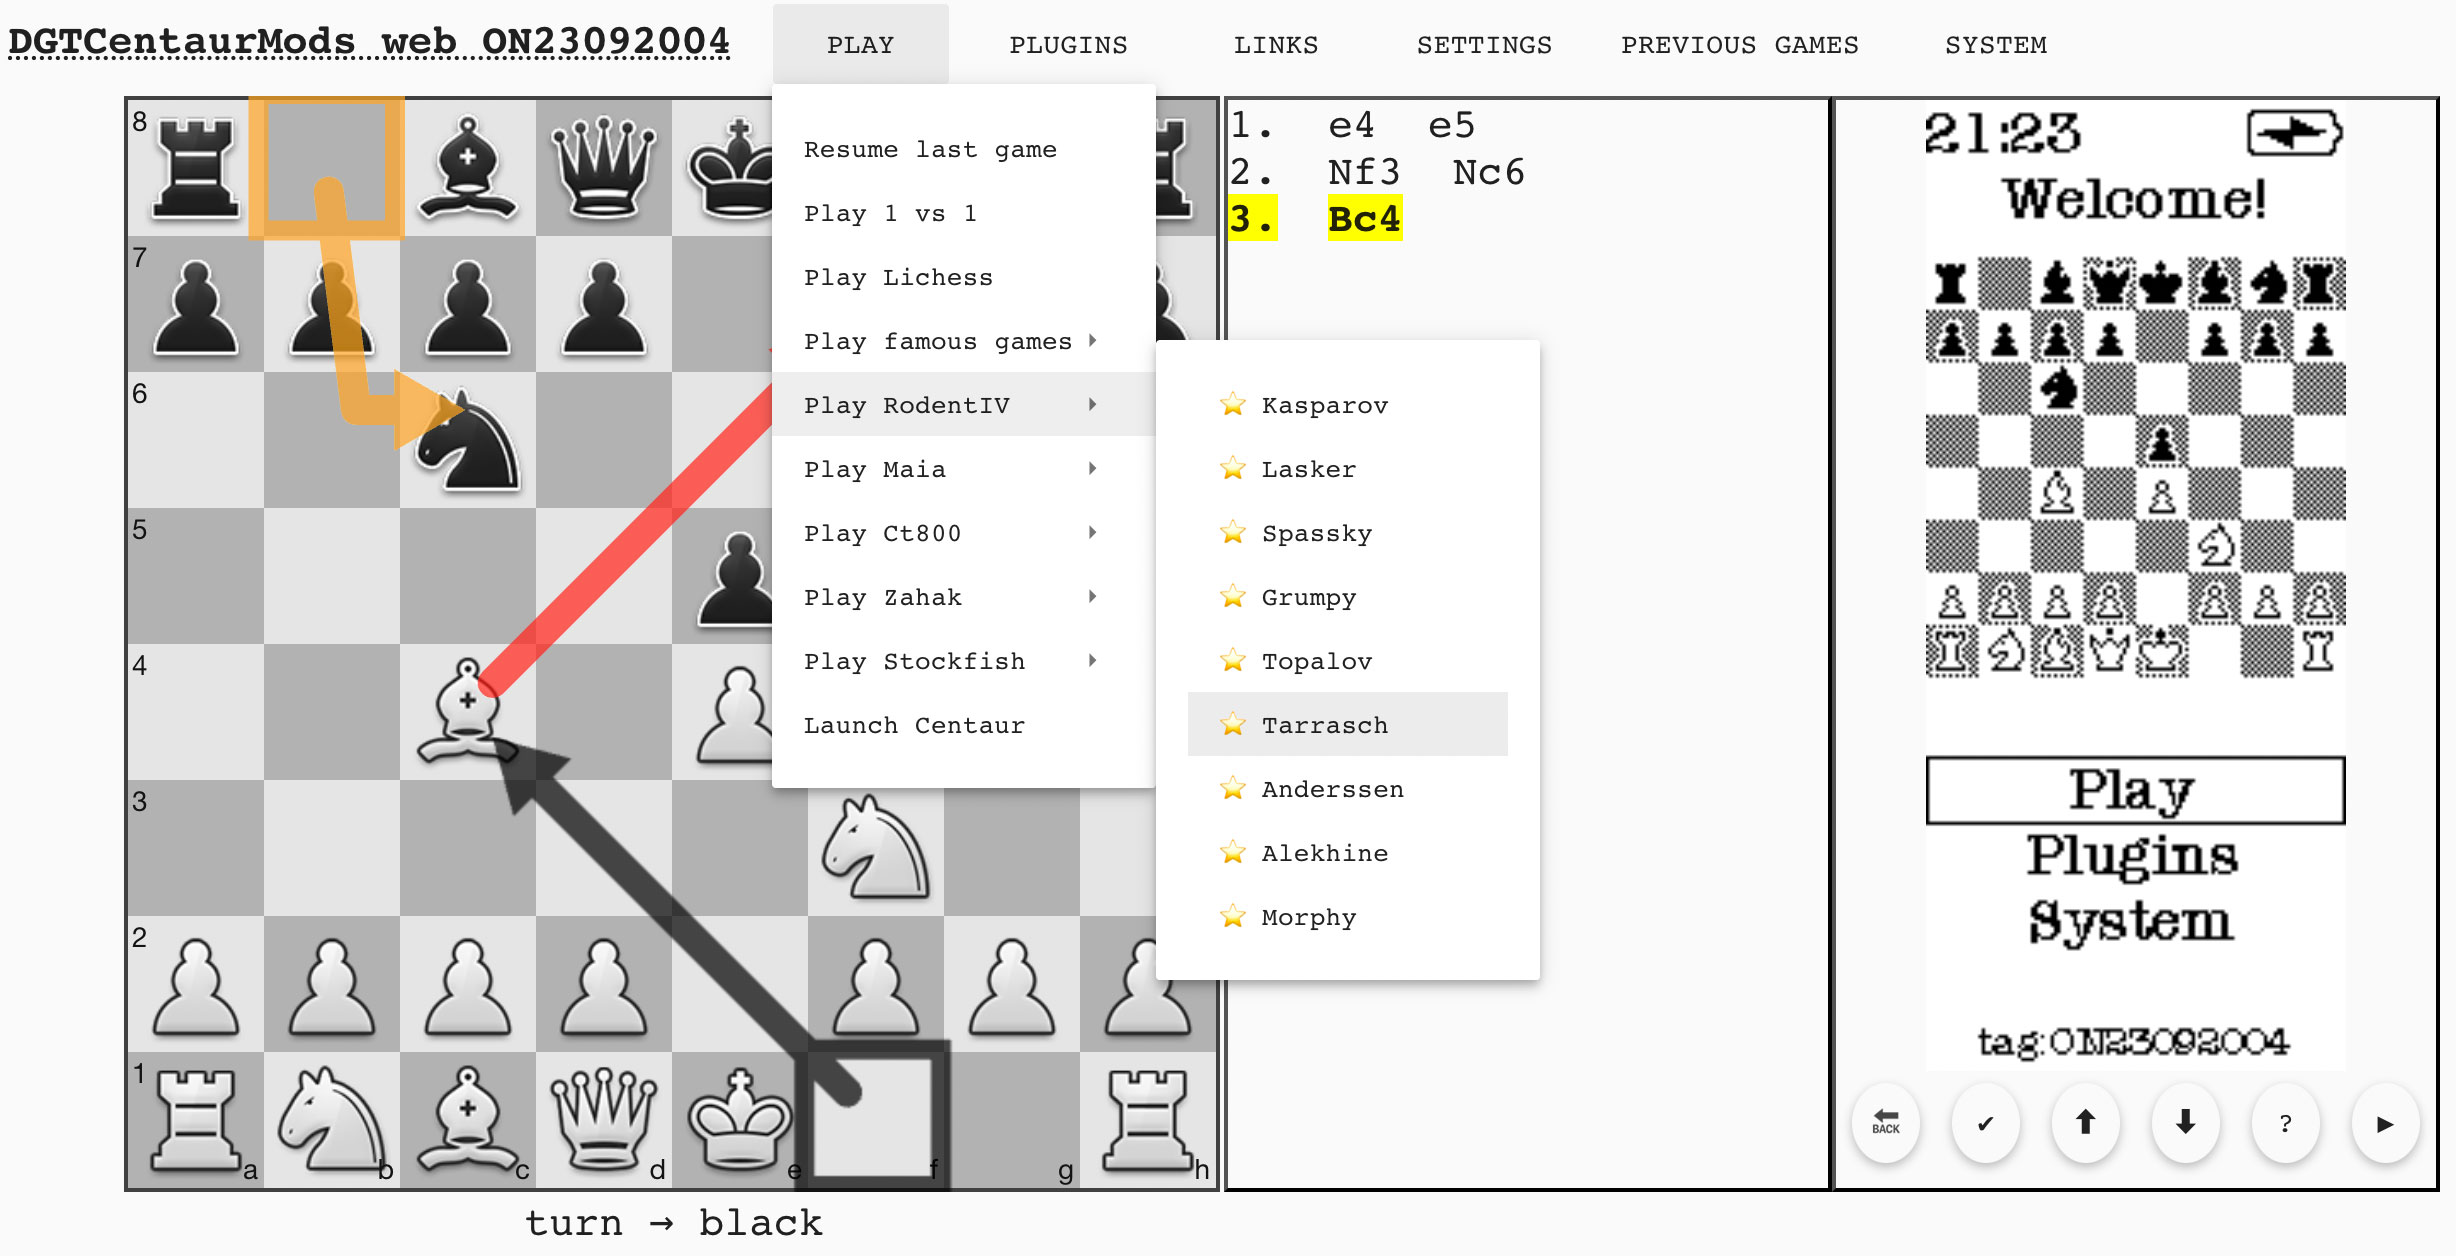
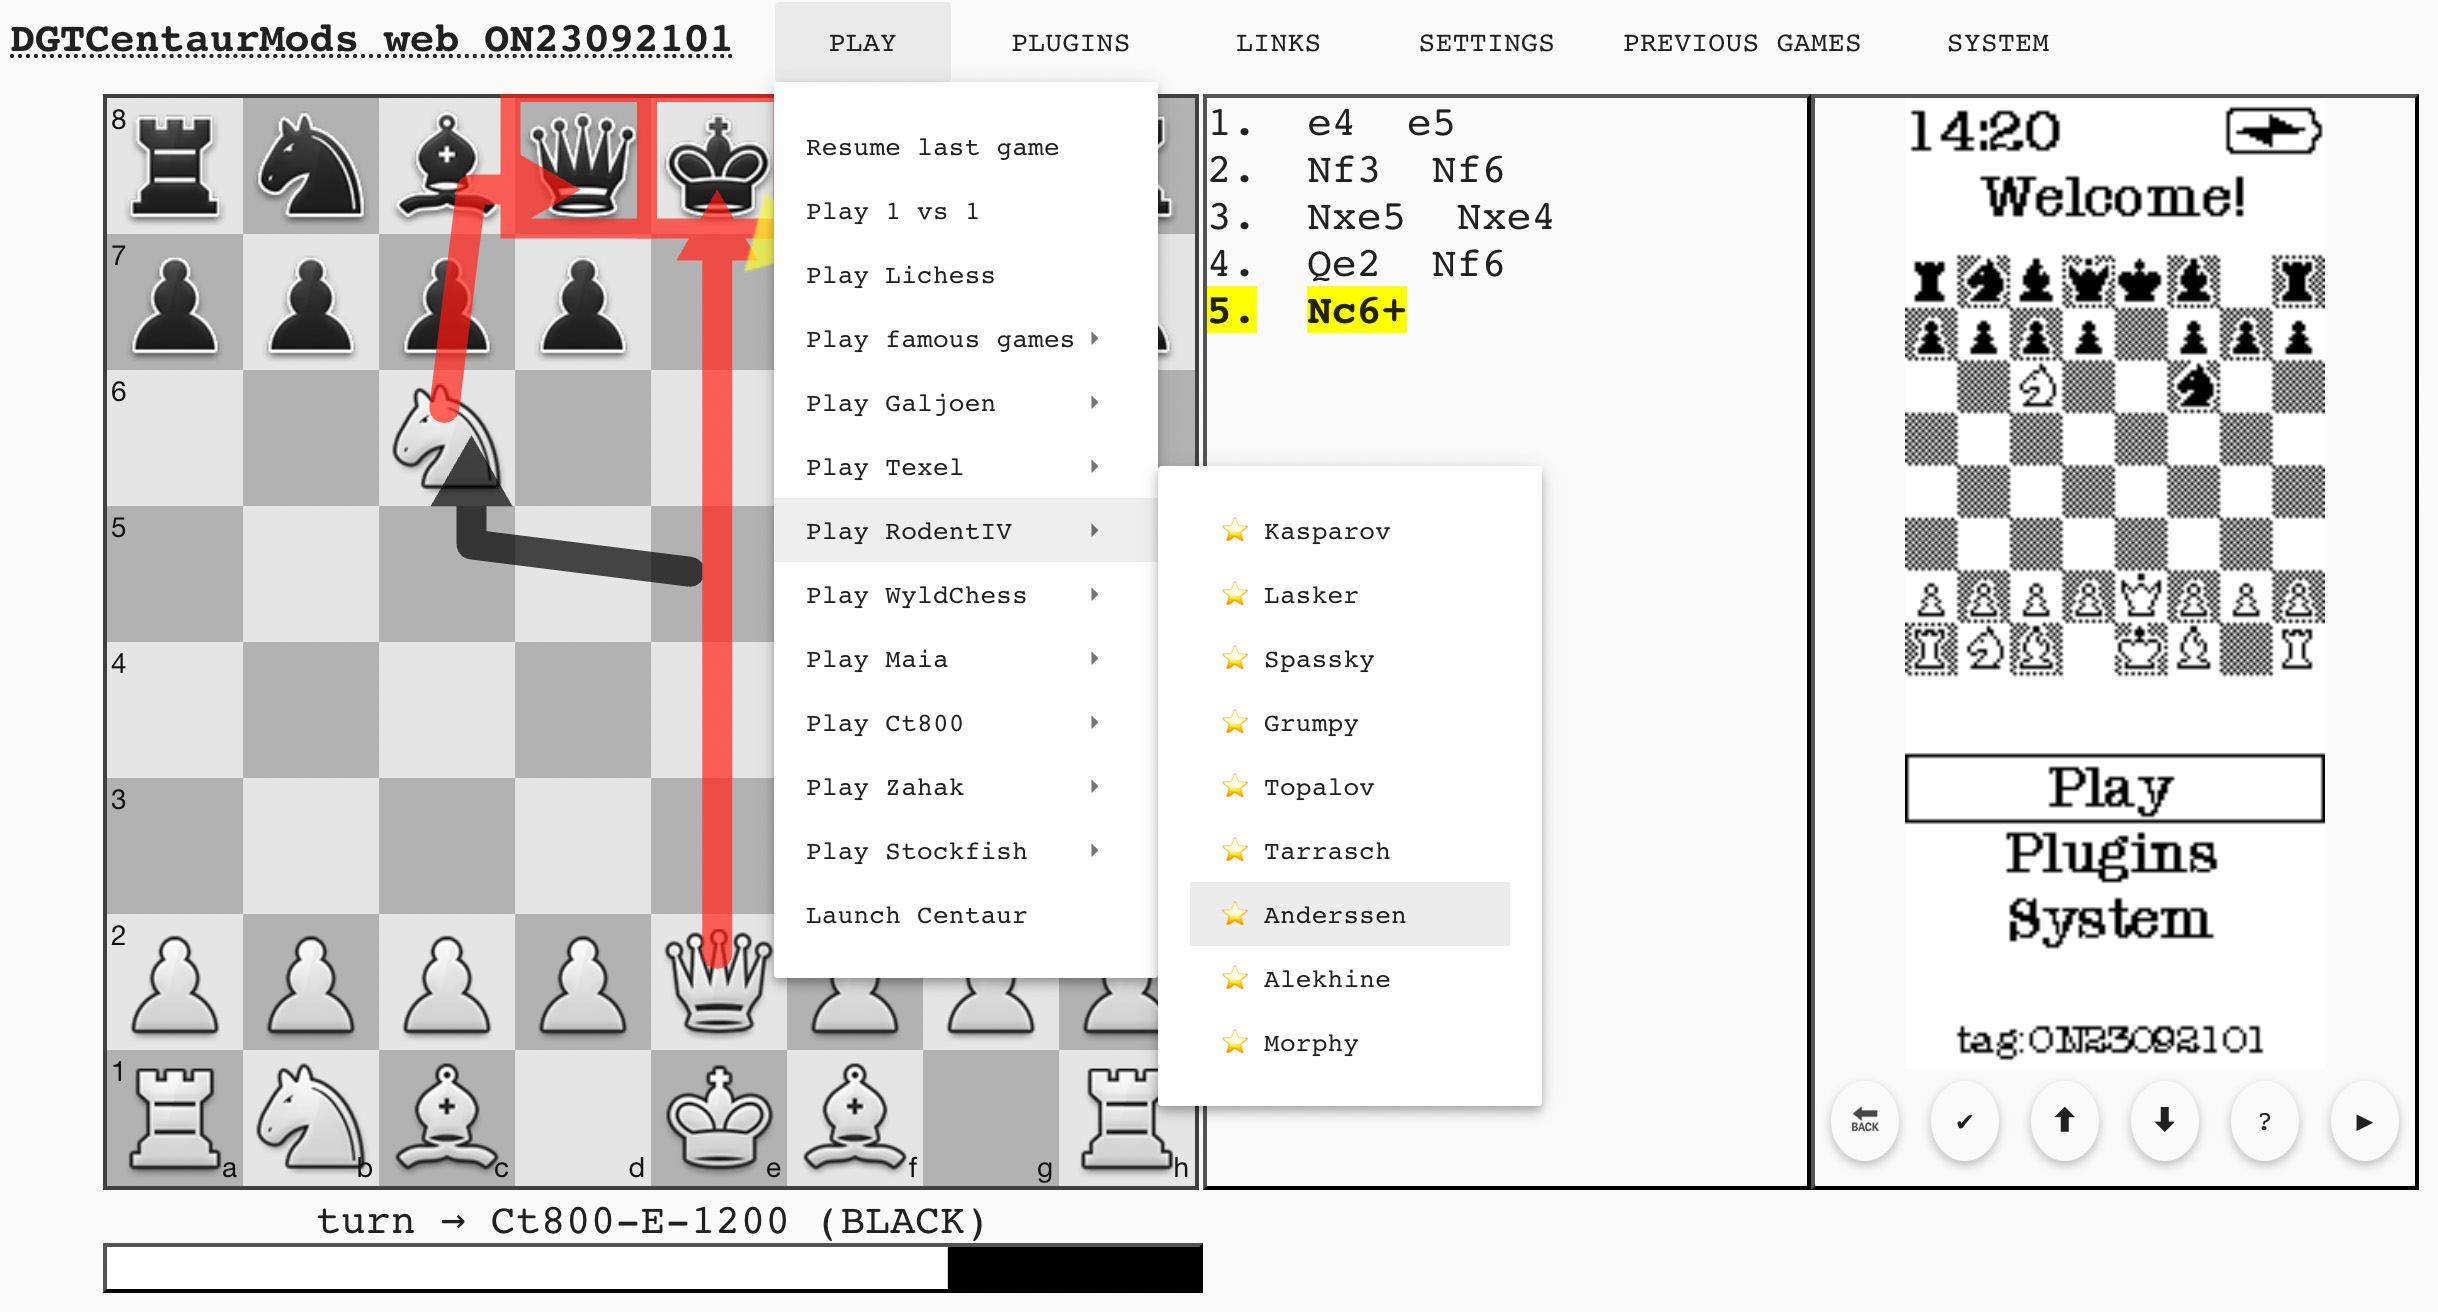
Updated readme.md.

Changed region(s): [[0.0, 0.0, 0.9975, 0.9936], [0.4053, 0.0311, 0.4676, 0.0621]]

diff --git a/README.md b/README.md
@@ -30,6 +30,8 @@ Inside the DGT Centaur is a Raspberry Pi Zero with an SD Card, by replacing that
 
 - New Lichess module.
 
+- New chess engines.
+
 - New WIFI module.
   
 - New Plugins engine with several plugin samples.
@@ -69,7 +71,16 @@ sudo apt install -y ./_DGTCentaurMods_A.alpha-latest.deb
 - [Flask server](https://flask.palletsprojects.com/)
 - [flask-socketio library](https://flask-socketio.readthedocs.io/)
 - [wpa-pyfi](https://pypi.org/project/wpa-pyfi/)
-- Multiple chess engines
+
+- [Maia chess engine](https://maiachess.com/)
+- [Rodent IV chess engine](https://github.com/nescitus/rodent-iv)
+- [CT800 chess engine](https://www.chessprogramming.org/CT800)
+- [Zahak chess engine](https://github.com/amanjpro/zahak)
+- [Galjoen chess engine](http://www.goudengaljoen.be/)
+- [Texel chess engine](https://github.com/peterosterlund2/texel)
+- [WyldChess chess engine](https://github.com/Mk-Chan/WyldChess)
+- [Stockfish chess engine](https://stockfishchess.org/)
+
 - DGT Centaur board Reverse engineering work of the [original](https://github.com/EdNekebno/DGTCentaurMods) project
 
 ## Support & Requests
@@ -230,4 +241,3 @@ for _ in range(10):
 SCREEN.write_text(4, "SCRIPT")
 SCREEN.write_text(5, "DONE!")
 ```
-
